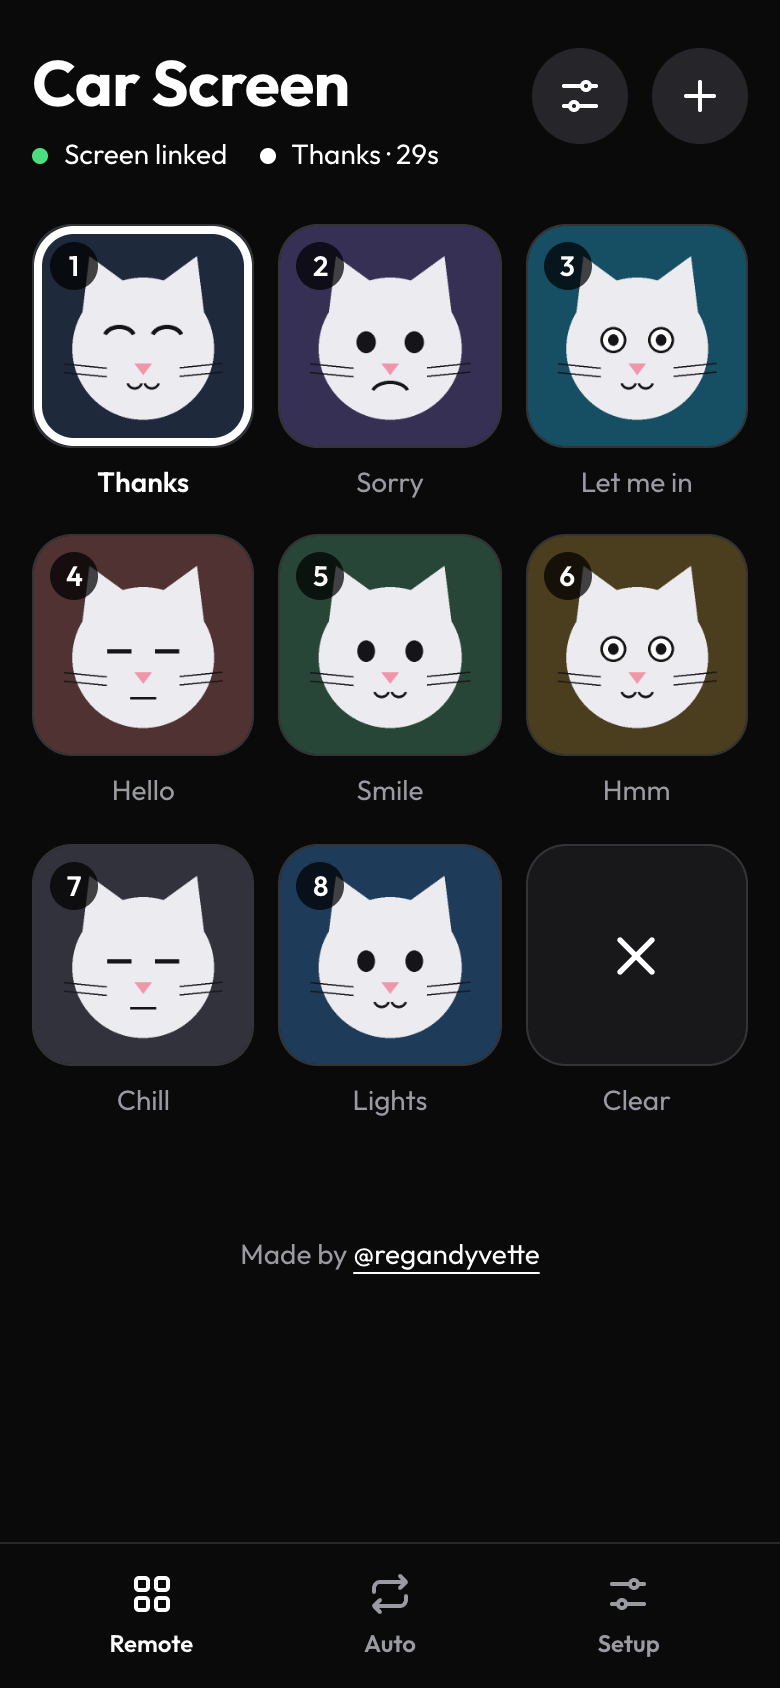
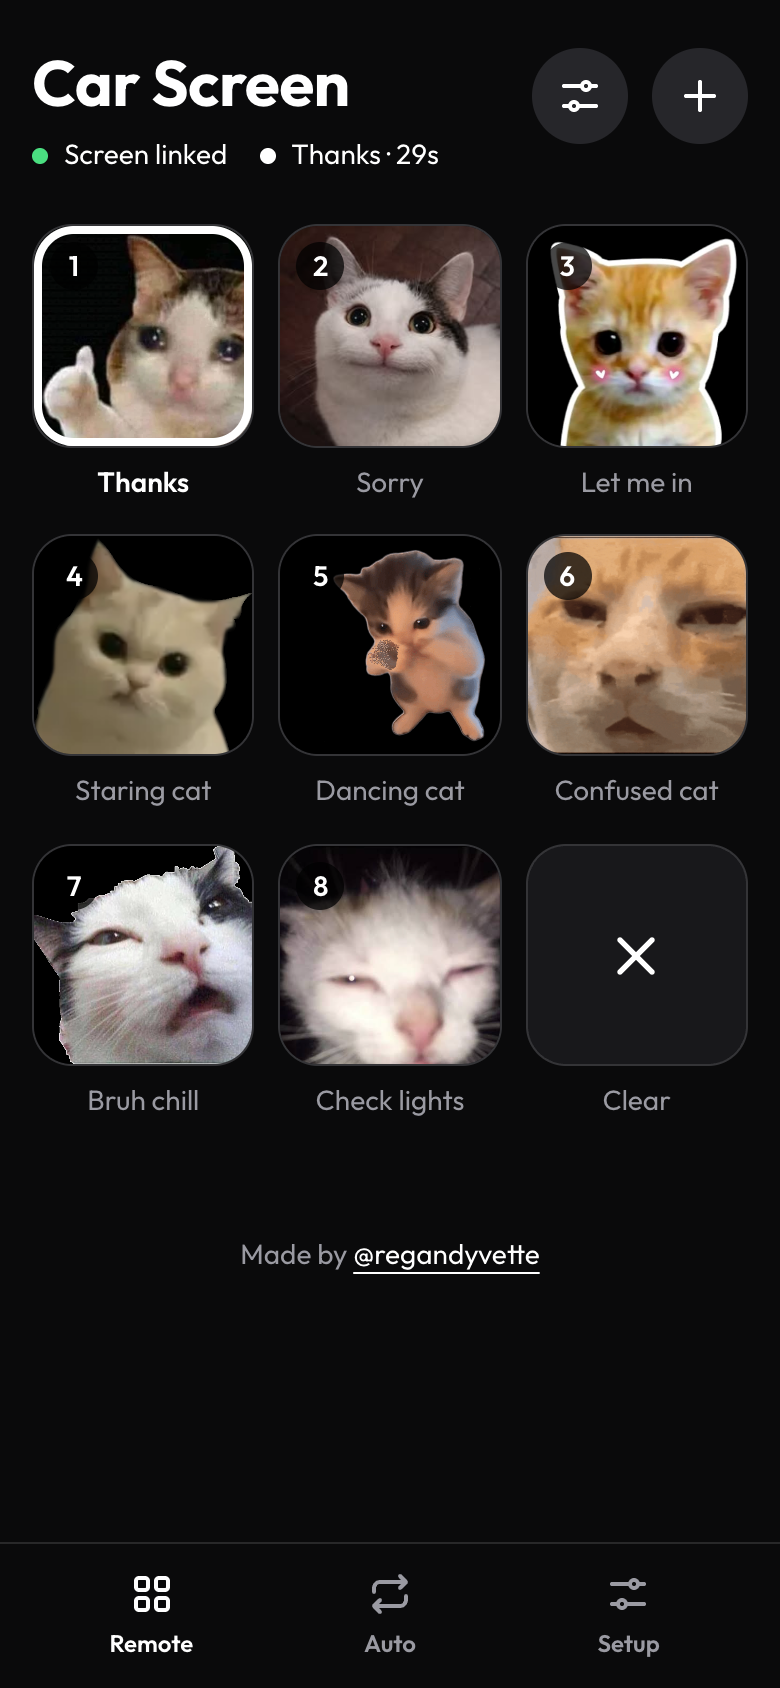
docs: replace hardware diagram with a 3D keypad and phone mockup, use real key pictures
Timestamp: 2026-11-10 14:21 PST

diff --git a/README.md b/README.md
@@ -1,6 +1,6 @@
 # Car Custom Display
 
-![A phone with a 3 by 3 keypad of picture keys linked to a tablet showing THANKS and a cat](docs/hero.png)
+![3D mockup of a keypad with nine picture keys next to a phone showing the Remote page with the same keys](docs/mockup.png)
 
 A phone and an old iPad are all you need. The iPad sits on a black screen.
 Press a key on your phone and a picture or a few words show up on the iPad.
@@ -65,8 +65,6 @@ the steps below yourself.
 Tap the black screen on the iPad any time to get back to its setup layer.
 
 ## Pick your hardware
-![Three setups: phone and tablet, keyboard or macro keypad with a wired display, and two spare phones](docs/hardware.png)
-
 The Screen and the Remote only need a modern browser and internet. Mix and
 match.
 

diff --git a/CHANGELOG.md b/CHANGELOG.md
@@ -1,5 +1,5 @@
 # Changelog
 
 ## 2026-11-10
-- README pictures: hero image, screenshots of the Remote and the Screen, and a hardware setup diagram.
+- README pictures: a 3D mockup of the keypad and phone, and screenshots of the Remote and the Screen.
 - First public release: Screen and Remote pages, editable messages and pictures, Auto next, number key support, plain starter pictures, setup guide for coding assistants, disclaimer and MIT license.
